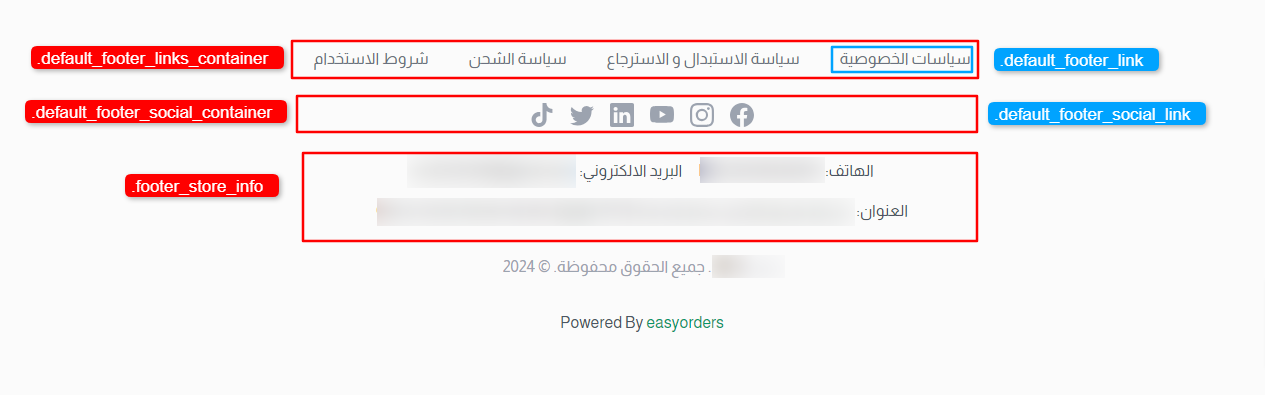
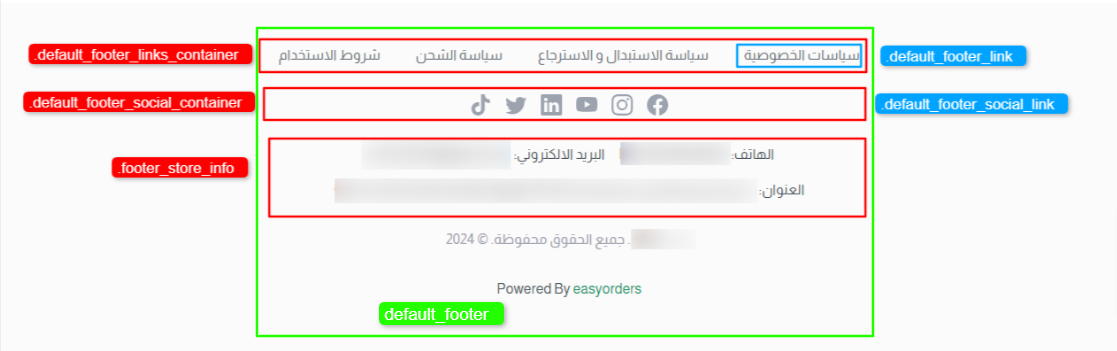
add footer container

diff --git a/docs/themes/default-and-sphinex.md b/docs/themes/default-and-sphinex.md
@@ -309,6 +309,8 @@ sidebar_position: 1
 ### Footer
 
 ```css
+.default_footer {
+}
 .default_footer_links_container {
 }
 

diff --git a/docs/themes/luxify.md b/docs/themes/luxify.md
@@ -261,6 +261,9 @@ sidebar_position: 2
 ### Footer
 
 ```css
+.luxify_footer {
+}
+
 .luxify_footer_links_container {
 }
 

diff --git a/docs/themes/nue.md b/docs/themes/nue.md
@@ -248,6 +248,9 @@ sidebar_position: 3
 ### Footer
 
 ```css
+.nue_footer {
+}
+
 .nue_footer_links_container {
 }
 
